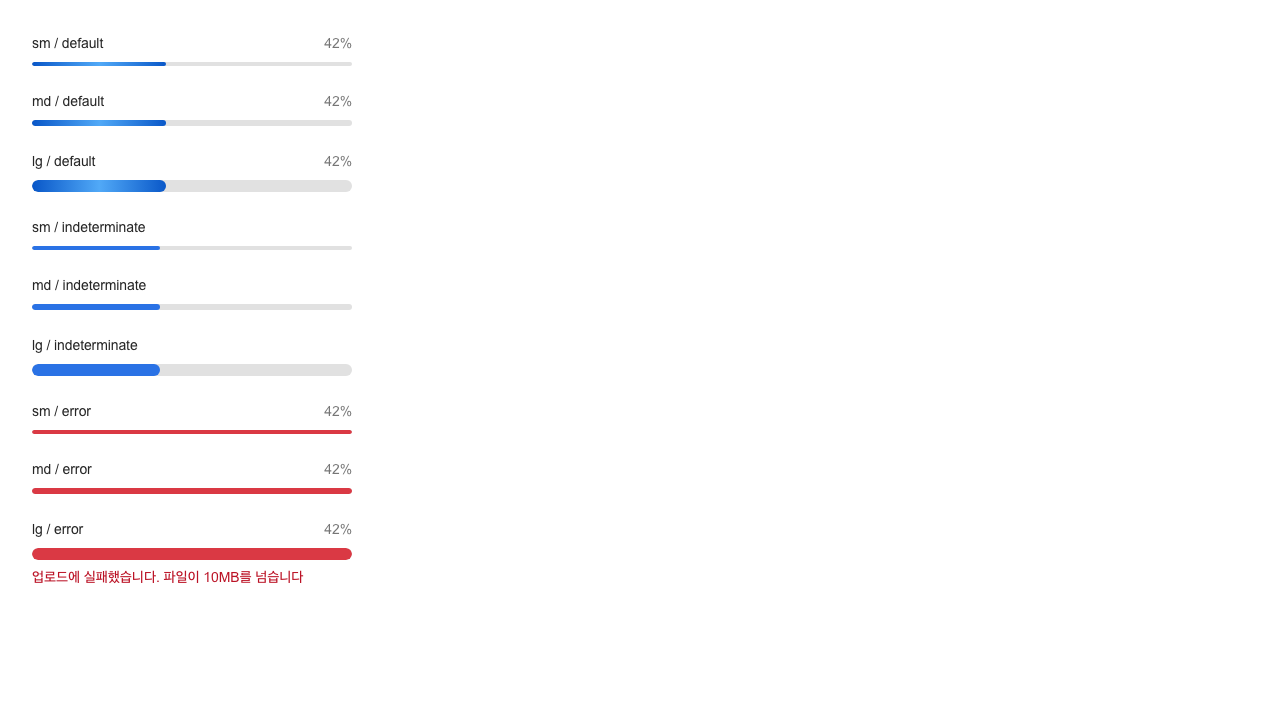
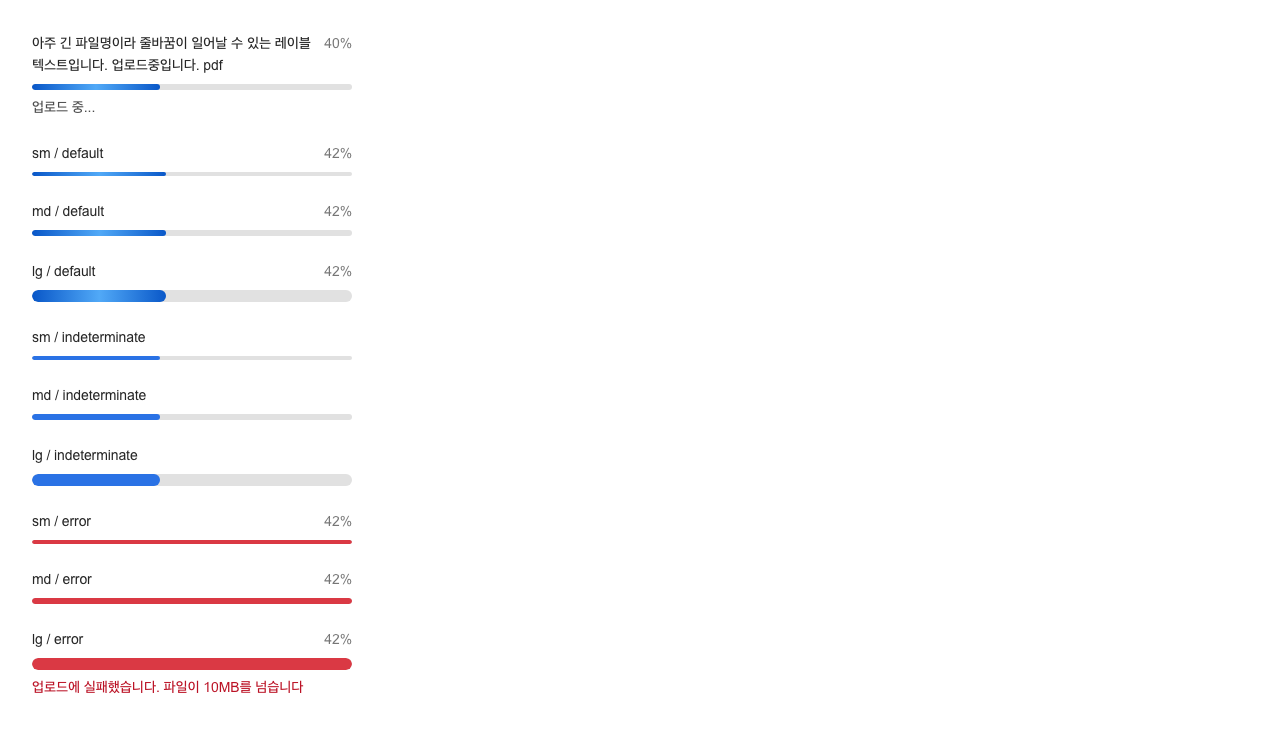
fix(ProgressBar): align root parts to top for wrapping labels

Changed region(s): [[0.0, 0.0306, 0.2812, 0.825], [0.0312, 0.8556, 0.2812, 0.9472]]

diff --git a/packages/core/src/components/progress-bar/progress-bar.stories.tsx b/packages/core/src/components/progress-bar/progress-bar.stories.tsx
@@ -33,6 +33,11 @@ export const Default: StoryObj<typeof ProgressBar.Root> = {
 export const TestBed: StoryObj<typeof ProgressBar.Root> = {
     render: () => (
         <VStack gap="$300" style={{ width: 320 }}>
+            <Bar
+                label="아주 긴 파일명이라 줄바꿈이 일어날 수 있는 레이블 텍스트입니다. 업로드중입니다. pdf"
+                value={40}
+                description="업로드 중..."
+            />
             <Bar label="sm / default" size="sm" value={42} />
             <Bar label="md / default" size="md" value={42} />
             <Bar label="lg / default" size="lg" value={42} />

diff --git a/packages/core/src/components/progress-bar/progress-bar.css.ts b/packages/core/src/components/progress-bar/progress-bar.css.ts
@@ -28,9 +28,9 @@ const flow = keyframes({
 export const root = componentStyle({
     display: 'grid',
     gridTemplateColumns: 'minmax(0, 1fr) auto',
-    alignItems: 'center',
+    alignItems: 'start',
     rowGap: 0,
-    columnGap: vars.size.space['050'],
+    columnGap: vars.size.space['150'],
     width: '100%',
 
     vars: {
